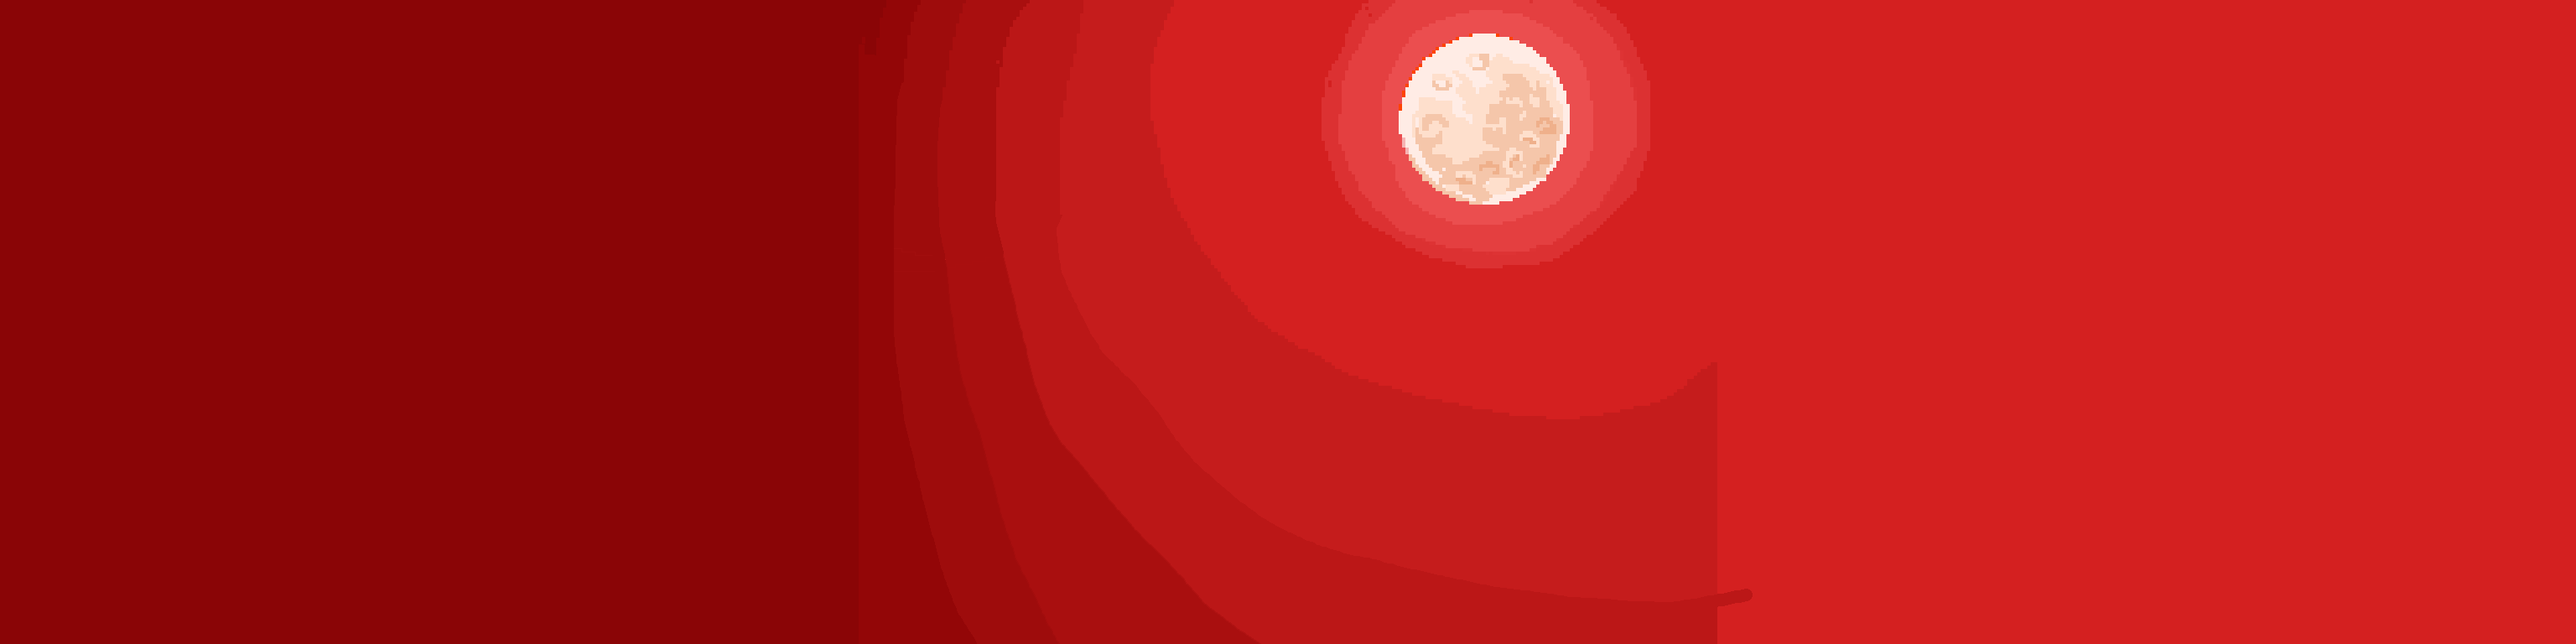
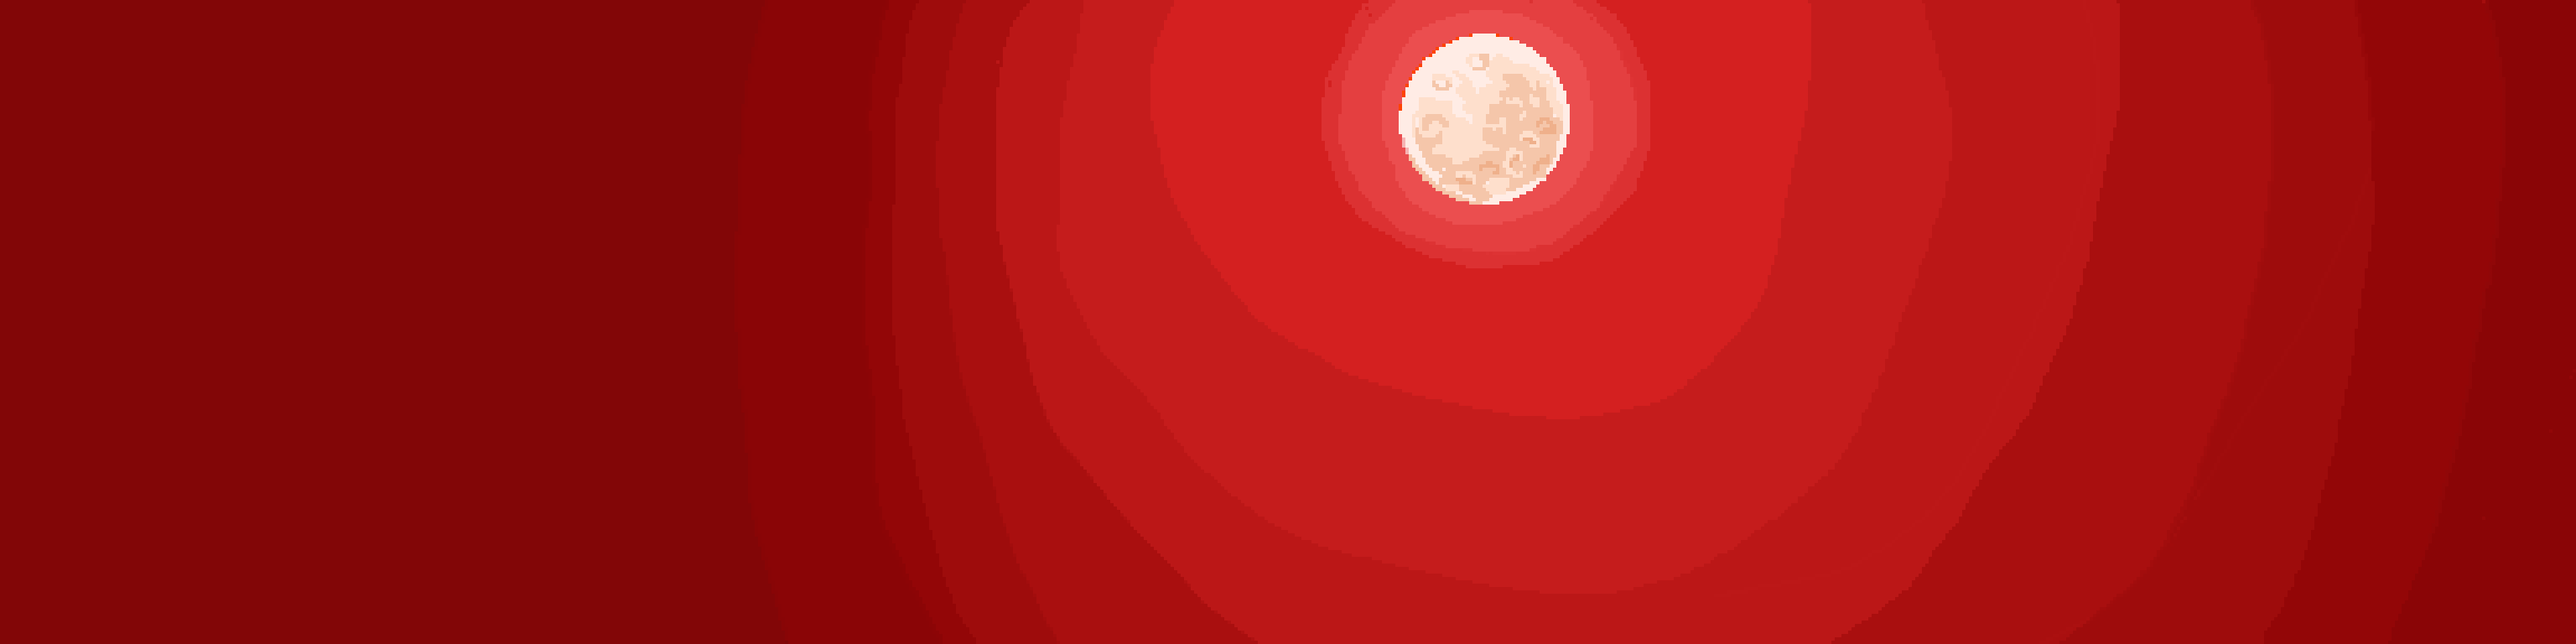
Menù 2.0

Changed region(s): [[0.6562, 0.0, 1.0, 1.0]]

diff --git a/js/Start.js b/js/Start.js
@@ -2,6 +2,7 @@ var cr = false;
 var au = false;
 var ho = false;
 var parallaxBG = 100;
+var parallaxMBG = 300;
 var parallaxMG = 500;
 var parallaxFG = 700;
 var parallaxFFG = 850;
@@ -13,6 +14,7 @@ var GameStart = {
     game.load.image('copertinaBG', 'assets/images/copertinaBG.png');
     game.load.image('copertinaFG', 'assets/images/copertinaFG.png');
     game.load.image('copertinaMG', 'assets/images/copertinaMG.png');
+    game.load.image('copertinaMBG', 'assets/images/copertinaMBG.png');
     game.load.image('start', 'assets/images/start.png');
     game.load.image('startL1', 'assets/images/startL1.png');
     game.load.image('startL2', 'assets/images/startL2.png');
@@ -26,6 +28,9 @@ var GameStart = {
     copertinaBG = game.add.sprite(-1024, 0, 'copertinaBG');
     game.physics.arcade.enable(copertinaBG);
     copertinaBG.enableBody = true;
+    copertinaMBG = game.add.sprite(-1024, 0, 'copertinaMBG');
+    game.physics.arcade.enable(copertinaMBG);
+    copertinaMBG.enableBody = true;
     copertinaMG = game.add.sprite(-1024, 0, 'copertinaMG');
     game.physics.arcade.enable(copertinaMG);
     copertinaMG.enableBody = true;
@@ -67,6 +72,7 @@ var GameStart = {
 
     if (copertinaFG.body.x <= 200 && cr == true) {
       copertinaBG.body.velocity.x = parallaxBG;
+      copertinaMBG.body.velocity.x = parallaxMBG;
       copertinaMG.body.velocity.x = parallaxMG;
       start.body.velocity.x = parallaxFFG;
       l1.body.velocity.x = parallaxFFG;
@@ -75,6 +81,7 @@ var GameStart = {
     }
     else if (copertinaFG.body.x >= -2248 && au == true) {
       copertinaBG.body.velocity.x = -parallaxBG;
+      copertinaMBG.body.velocity.x = -parallaxMBG;
       copertinaMG.body.velocity.x = -parallaxMG;
       start.body.velocity.x = -parallaxFFG;
       l1.body.velocity.x = -parallaxFFG;
@@ -84,6 +91,7 @@ var GameStart = {
     else if ((copertinaFG.body.x <= -1025 || copertinaFG.body.x >= -1023) && ho == true) {
       if (copertinaFG.body.x < -1024) {
         copertinaBG.body.velocity.x = parallaxBG;
+        copertinaMBG.body.velocity.x = parallaxMBG;
         copertinaMG.body.velocity.x = parallaxMG;
         start.body.velocity.x = parallaxFFG;
         l1.body.velocity.x = parallaxFFG;
@@ -92,6 +100,7 @@ var GameStart = {
       }
       else if (copertinaFG.body.x > -1024) {
         copertinaBG.body.velocity.x = -parallaxBG;
+        copertinaMBG.body.velocity.x = -parallaxMBG;
         copertinaMG.body.velocity.x = -parallaxMG;
         start.body.velocity.x = -parallaxFFG;
         l1.body.velocity.x = -parallaxFFG;
@@ -101,6 +110,7 @@ var GameStart = {
     }
     else {
       copertinaBG.body.velocity.x = 0;
+      copertinaMBG.body.velocity.x = 0;
       copertinaMG.body.velocity.x = 0;
       copertinaFG.body.velocity.x = 0;
       start.body.velocity.x = 0;
@@ -111,7 +121,8 @@ var GameStart = {
       ho = false;
     }
 
-    copertinaBG.body.y = -10 +game.input.mousePointer.y/200;
+    copertinaBG.body.y = -10 -game.input.mousePointer.y/200;
+    copertinaMBG.body.y = -10 -game.input.mousePointer.y/150;
     copertinaMG.body.y = 10 -game.input.mousePointer.y/100;
     copertinaFG.body.y = 20 -game.input.mousePointer.y/35;
 

diff --git a/js/Level_1.js b/js/Level_1.js
@@ -3,7 +3,6 @@ var timeWolves = 0;
 var wait = 0;
 var step1 = 0;
 var memoryObjCollect = 0;
-var step1 = 0;
 var level1back;
 
 var GameLevel_1 = {
